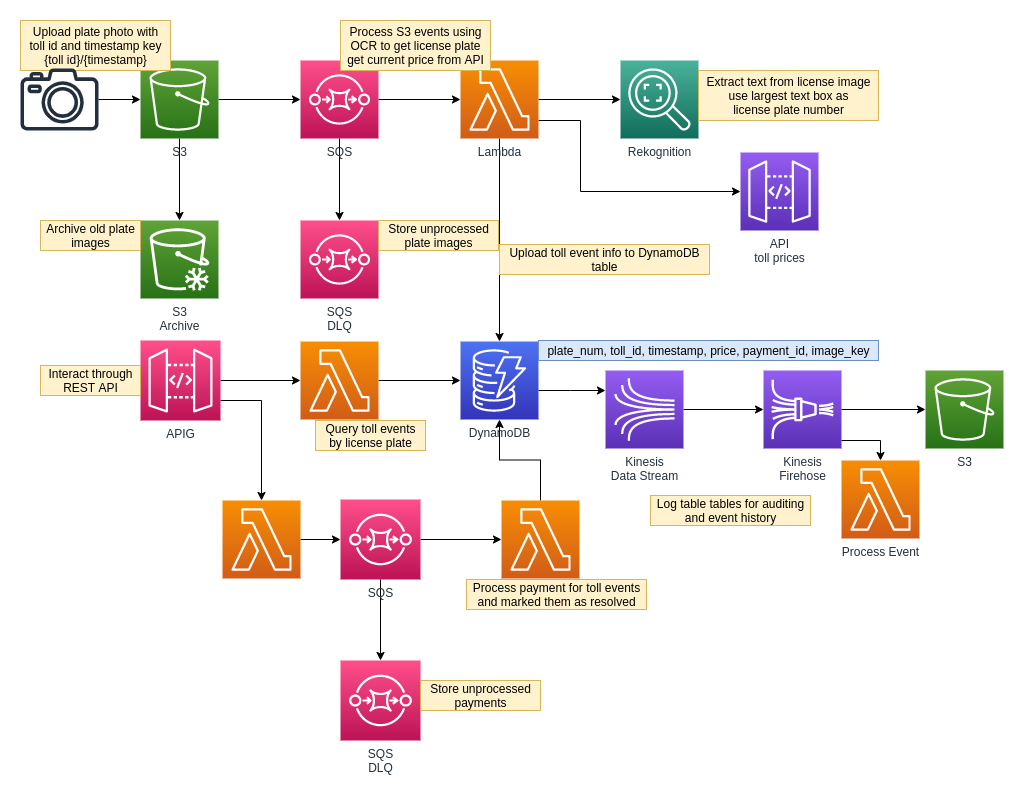
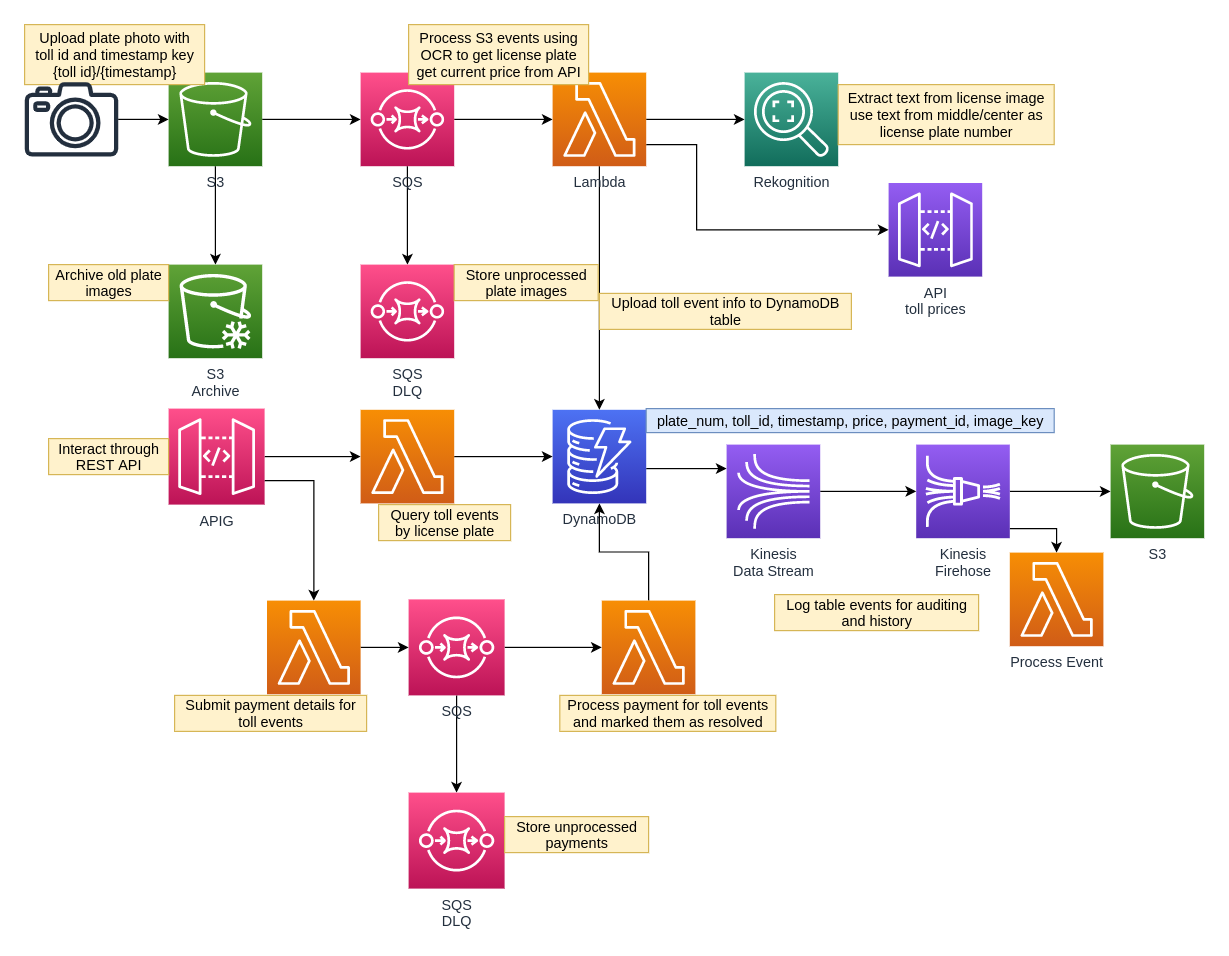
update readme

diff --git a/README.md b/README.md
@@ -7,7 +7,7 @@ EZToll takes pictures of license plates as input, converts them to toll events, 
 1. Scales with use to handle peak traffic hours
 1. Serverless, pay per use
 1. Durable, store events if processing fails
-1. Store logs for easy auditing
+1. Store DynamoDB table logs for easy auditing
 
 
 ## Service Flow
